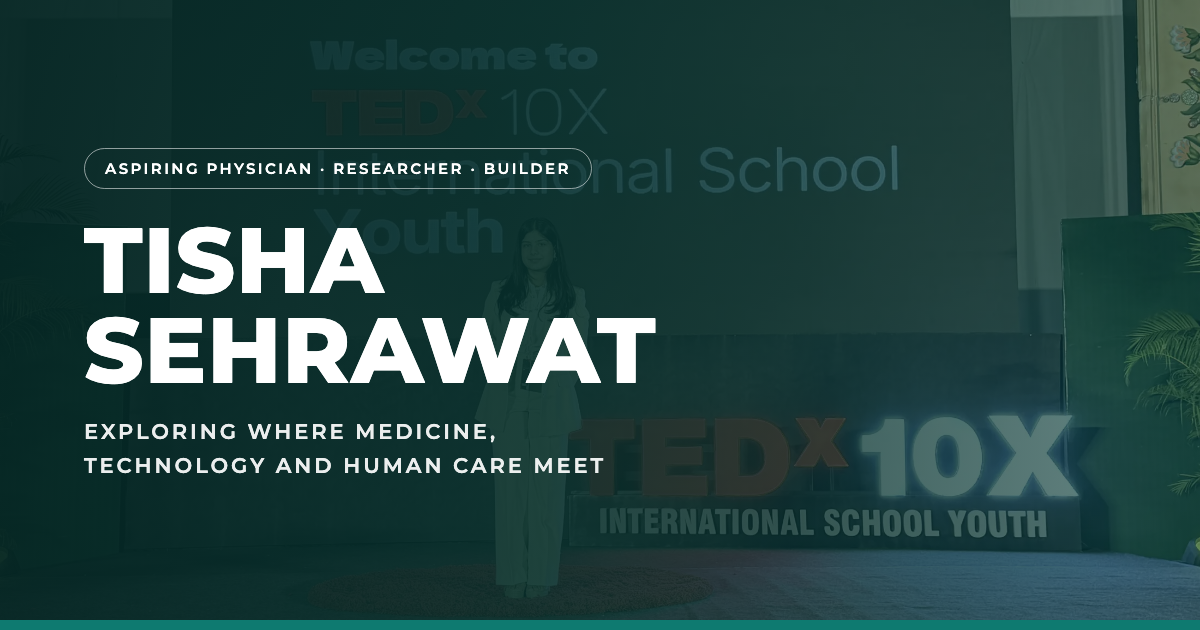
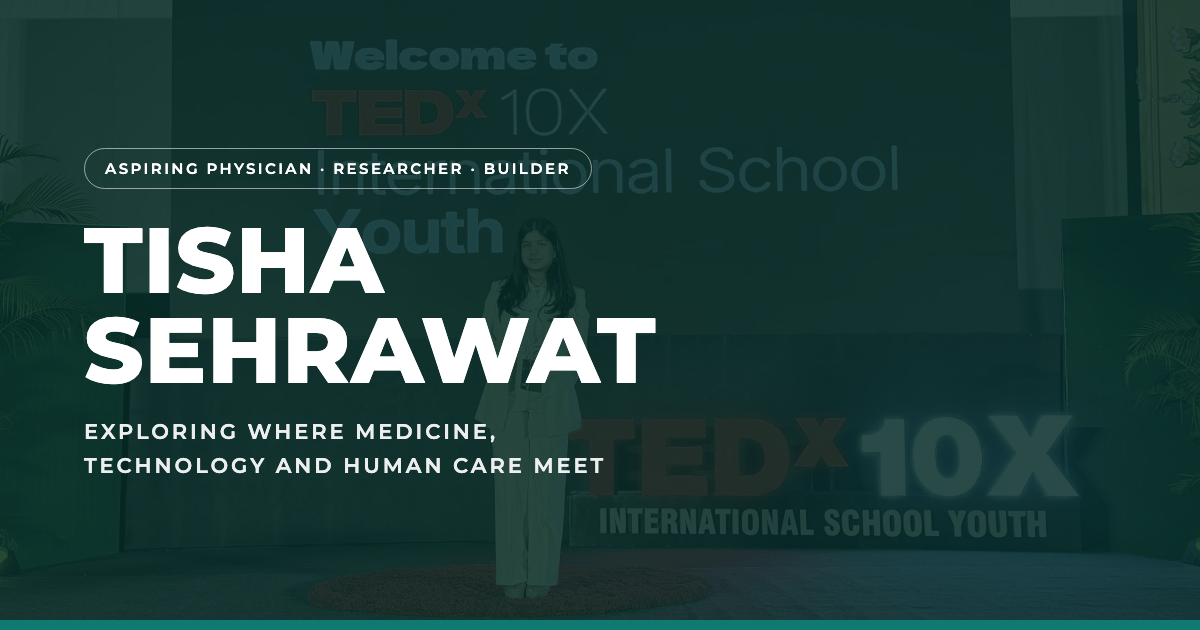
bg

diff --git a/src/styles.css b/src/styles.css
@@ -24,7 +24,6 @@
   --neu-raised:5px 5px 15px var(--neu-shadow),-5px -5px 15px var(--neu-highlight);
   --neu-raised-lg:9px 11px 24px var(--neu-shadow),-6px -6px 18px var(--neu-highlight);
   --neu-raised-sm:4px 4px 10px var(--neu-shadow),-4px -4px 10px var(--neu-highlight);
-  --accent-shadow:0 18px 36px -22px rgba(14,122,112,.85);
   --font-heading:"Montserrat",ui-sans-serif,system-ui,-apple-system,"Segoe UI",sans-serif;
   --font-body:"Poppins",ui-sans-serif,system-ui,-apple-system,"Segoe UI",sans-serif;
   --font-script:"Playball","Snell Roundhand","Brush Script MT",cursive;
@@ -60,7 +59,7 @@ strong{font-weight:600;color:var(--fg)}
 .btn{display:inline-flex;align-items:center;justify-content:center;gap:12px;min-height:52px;padding:0 30px;border-radius:999px;font-family:var(--font-heading);font-size:14px;font-weight:600;letter-spacing:.1em;text-transform:uppercase;line-height:1;transition:transform .35s var(--ease),box-shadow .35s var(--ease),background .25s,color .25s}
 .btn svg{width:17px;height:17px;fill:none;stroke:currentColor;stroke-width:2;stroke-linecap:round;stroke-linejoin:round;flex:none}
 .btn:hover{transform:translateY(-2px)}
-.btn--primary{background:var(--primary);color:#fff;box-shadow:var(--accent-shadow)}
+.btn--primary{background:var(--primary);color:#fff}
 .btn--primary:hover{background:var(--primary-deep)}
 .btn--neu{background:var(--neu-surface);color:var(--primary);box-shadow:var(--neu-raised)}
 .btn--outline{border:1px solid rgba(255,255,255,.6);color:#fff;background:rgba(255,255,255,.04)}
@@ -98,8 +97,8 @@ strong{font-weight:600;color:var(--fg)}
 
 /* ---------- Hero ---------- */
 .hero{position:relative;display:flex;align-items:center;min-height:min(714px,calc(100svh - var(--header-height) + 40px));padding-block:96px 150px;color:#fff;overflow:hidden;isolation:isolate}
-.hero-image{position:absolute;inset:0;z-index:-2;width:100%;height:100%;object-fit:cover;object-position:60% 42%;filter:saturate(.75)}
-.hero-overlay{position:absolute;inset:0;z-index:-1;background:linear-gradient(90deg,rgba(5,38,36,.95) 0%,rgba(7,48,45,.88) 40%,rgba(9,60,56,.66) 72%,rgba(9,60,56,.55) 100%),linear-gradient(0deg,rgba(5,38,36,.4),transparent 45%)}
+.hero-image{position:absolute;inset:0;z-index:-2;width:100%;height:100%;object-fit:cover;object-position:60% 42%;filter:saturate(.75) blur(2px);transform:scale(1.04)}
+.hero-overlay{position:absolute;inset:0;z-index:-1;background:rgba(6,44,41,.86)}
 .pill{display:inline-flex;align-items:center;gap:10px;padding:9px 18px;border:1px solid rgba(255,255,255,.5);border-radius:999px;background:rgba(255,255,255,.08);font-family:var(--font-heading);font-size:12px;font-weight:600;letter-spacing:.16em;text-transform:uppercase;line-height:1.4}
 .pill svg{width:15px;height:15px;fill:none;stroke:currentColor;stroke-width:2}
 .hero-title{margin:28px 0 22px;color:#fff;font-size:clamp(46px,6.2vw,76px);font-weight:800;line-height:1;letter-spacing:.01em;text-transform:uppercase}
@@ -107,7 +106,7 @@ strong{font-weight:600;color:var(--fg)}
 
 /* ---------- Stats ---------- */
 .stats-wrap{position:relative;z-index:2;margin-top:-80px}
-.stats{display:grid;grid-template-columns:repeat(4,1fr);border-radius:var(--radius);background:var(--neu-surface);box-shadow:var(--neu-raised-lg)}
+.stats{display:grid;grid-template-columns:repeat(4,1fr);border-radius:var(--radius);background:var(--surface);border:1px solid var(--border)}
 .stats>div{padding:30px 30px 32px}
 .stats>div+div{border-left:1px solid var(--border)}
 .stats dt{font-family:var(--font-heading);font-size:clamp(28px,2.7vw,36px);font-weight:700;line-height:1.1;color:var(--primary)}
@@ -157,12 +156,11 @@ strong{font-weight:600;color:var(--fg)}
 .label-card dd{font-size:15px;line-height:1.6;color:var(--fg)}
 
 /* Blue band */
-.band{position:relative;padding-block:clamp(80px,8vw,100px);color:#fff;background:linear-gradient(135deg,var(--primary) 0%,var(--primary-deep) 100%);isolation:isolate;overflow:hidden}
-.band::before{content:"";position:absolute;inset:0;z-index:-1;background-image:radial-gradient(rgba(255,255,255,.12) 1px,transparent 1.2px);background-size:26px 26px;mask-image:linear-gradient(180deg,#000,transparent 85%);-webkit-mask-image:linear-gradient(180deg,#000,transparent 85%)}
+.band{position:relative;padding-block:clamp(80px,8vw,100px);color:#fff;background:var(--primary);isolation:isolate;overflow:hidden}
 .band .section-head .eyebrow{color:rgba(255,255,255,.8)}
-.work-card{display:flex;flex-direction:column;overflow:hidden;border-radius:var(--radius);background:var(--surface);color:var(--text);box-shadow:0 30px 50px -28px rgba(6,30,28,.55),0 4px 14px -6px rgba(6,30,28,.25);transition:transform .35s var(--ease)}
+.work-card{display:flex;flex-direction:column;overflow:hidden;border-radius:var(--radius);background:var(--surface);color:var(--text);transition:transform .35s var(--ease)}
 .work-card:hover{transform:translateY(-6px)}
-.work-media{height:236px;border-bottom:1px solid var(--border);background:linear-gradient(180deg,#f7fbfa,#edf4f2);overflow:hidden}
+.work-media{height:236px;border-bottom:1px solid var(--border);background:#f4f8f7;overflow:hidden}
 .work-media img{width:100%;height:100%;object-fit:cover}
 .work-body{display:flex;flex-direction:column;flex:1;padding:28px}
 .work-body h3{margin-bottom:14px;font-size:22px;font-weight:700}
@@ -188,7 +186,7 @@ strong{font-weight:600;color:var(--fg)}
 .page-header h1::after{content:"";display:block;width:52px;height:3px;margin:22px auto 0;border-radius:3px;background:var(--primary)}
 .page-header p{max-width:820px;margin:26px auto 0;color:var(--text)}
 .feature{display:grid;grid-template-columns:minmax(0,.85fr) minmax(0,1.15fr);gap:clamp(36px,5vw,64px);align-items:start}
-.feature-media{padding:14px;border-radius:var(--radius);background:var(--surface);color:var(--text);box-shadow:0 30px 60px -20px rgba(6,30,28,.5)}
+.feature-media{padding:14px;border-radius:var(--radius);background:var(--surface);color:var(--text)}
 .feature-media .art{height:auto;aspect-ratio:5/4}
 .feature-media figcaption{padding:12px 6px 2px;font-size:13px;line-height:1.6;color:var(--muted)}
 .feature-copy p{margin-bottom:16px;color:rgba(255,255,255,.9)}
@@ -204,7 +202,7 @@ strong{font-weight:600;color:var(--fg)}
 .checks{display:grid;gap:10px;margin-top:18px;padding-top:18px;border-top:1px solid var(--border)}
 .checks li{display:grid;grid-template-columns:18px 1fr;gap:10px;font-size:14.5px;line-height:1.6}
 .checks svg{width:16px;height:16px;margin-top:4px;fill:none;stroke:var(--primary);stroke-width:2.4;stroke-linecap:round;stroke-linejoin:round}
-.blue-card{display:flex;flex-direction:column;padding:32px;border-radius:var(--radius);color:rgba(255,255,255,.9);background:linear-gradient(145deg,#13897e,var(--primary) 60%,#0b6a61);box-shadow:var(--accent-shadow);scroll-margin-top:calc(var(--header-height) + 24px)}
+.blue-card{display:flex;flex-direction:column;padding:32px;border-radius:var(--radius);color:rgba(255,255,255,.9);background:var(--primary);scroll-margin-top:calc(var(--header-height) + 24px)}
 .blue-card .meta{margin-bottom:8px;color:rgba(255,255,255,.82);font-family:var(--font-heading);font-size:12px;font-weight:600;letter-spacing:.14em;text-transform:uppercase}
 .blue-card h3{margin-bottom:14px;color:#fff;font-size:24px;font-weight:700}
 .blue-card p{font-size:15px;line-height:1.75}
@@ -217,7 +215,7 @@ strong{font-weight:600;color:var(--fg)}
 .card .links{display:flex;flex-wrap:wrap;gap:8px 22px;margin-top:auto;padding-top:20px}
 .card .links a{display:inline-flex;align-items:center;gap:8px;color:var(--primary);font-family:var(--font-heading);font-size:13px;font-weight:700;letter-spacing:.1em;text-transform:uppercase}
 .card .links svg{width:15px;height:15px;fill:none;stroke:currentColor;stroke-width:2;stroke-linecap:round;stroke-linejoin:round}
-.card-media{margin:-34px -34px 26px;height:220px;overflow:hidden;border-radius:var(--radius) var(--radius) 0 0;border-bottom:1px solid var(--border);background:linear-gradient(180deg,#f7fbfa,#edf4f2)}
+.card-media{margin:-34px -34px 26px;height:220px;overflow:hidden;border-radius:var(--radius) var(--radius) 0 0;border-bottom:1px solid var(--border);background:#f4f8f7}
 .card-media img{width:100%;height:100%;object-fit:cover}
 .photo-pair{display:grid;grid-template-columns:1.1fr .9fr;gap:24px;align-items:end}
 .photo-pair img{width:100%;border-radius:var(--radius);box-shadow:var(--neu-raised-lg);object-fit:cover}
@@ -262,7 +260,7 @@ strong{font-weight:600;color:var(--fg)}
 .filters{display:flex;flex-wrap:wrap;justify-content:center;gap:12px;margin-bottom:56px}
 .filter{display:inline-flex;align-items:center;gap:10px;min-height:44px;padding:0 18px;border-radius:999px;background:var(--neu-surface);box-shadow:var(--neu-raised-sm);font-size:14px;font-weight:500;color:var(--fg);transition:background .25s,color .25s}
 .filter span{display:inline-grid;place-items:center;min-width:24px;height:22px;padding:0 7px;border-radius:999px;background:var(--primary-soft);color:var(--primary);font-size:12px;font-weight:600}
-.filter[aria-pressed="true"]{background:var(--primary);color:#fff;box-shadow:var(--accent-shadow)}
+.filter[aria-pressed="true"]{background:var(--primary);color:#fff;box-shadow:none}
 .filter[aria-pressed="true"] span{background:rgba(255,255,255,.2);color:#fff}
 .award-group+.award-group{margin-top:64px}
 .award-group>h2{margin-bottom:30px;text-align:center;font-size:clamp(24px,2.2vw,30px);font-weight:700}
@@ -329,7 +327,6 @@ a.card:hover h3{color:var(--primary)}
   :root{--gutter:20px}
   body{font-size:15.5px}
   .hero{padding-block:72px 130px}
-  .hero-overlay{background:linear-gradient(180deg,rgba(5,38,36,.82),rgba(7,48,45,.9))}
   .btn-row .btn{flex:1 1 auto}
   .stats{grid-template-columns:1fr}
   .stats>div+div{border-left:0;border-top:1px solid var(--border)}
